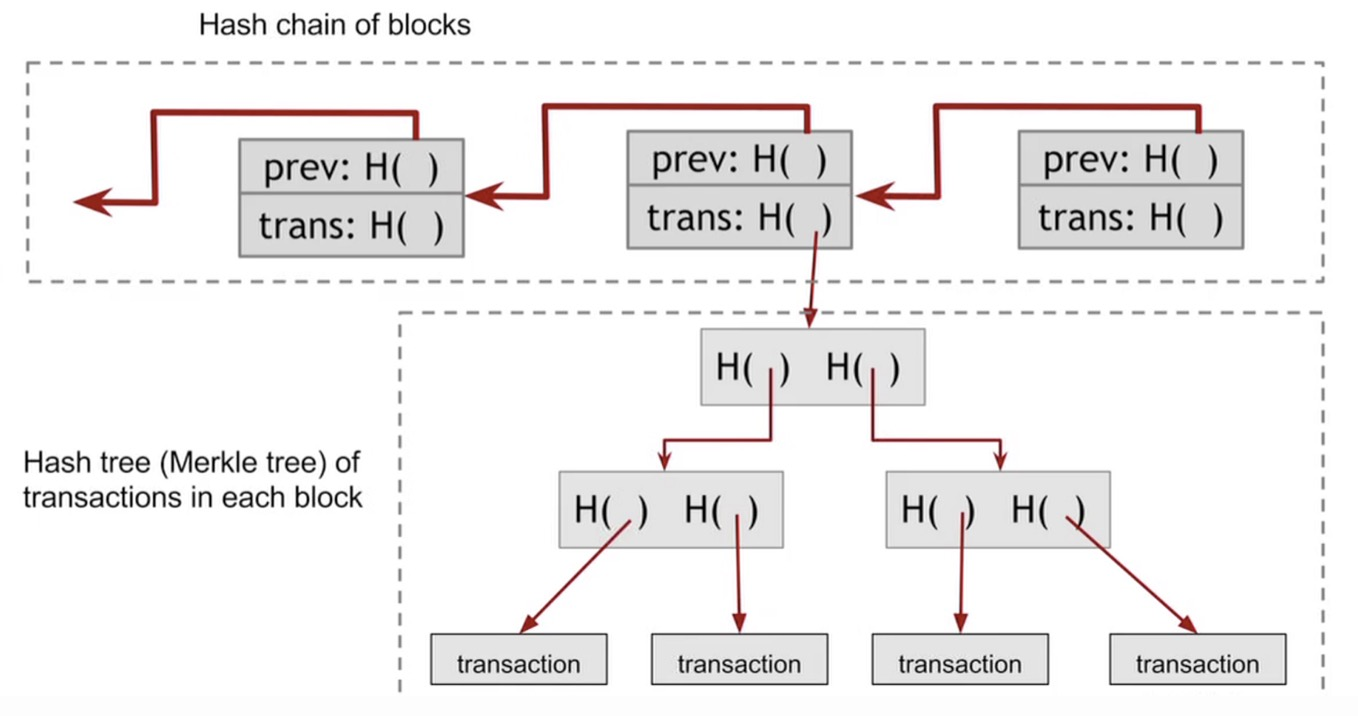
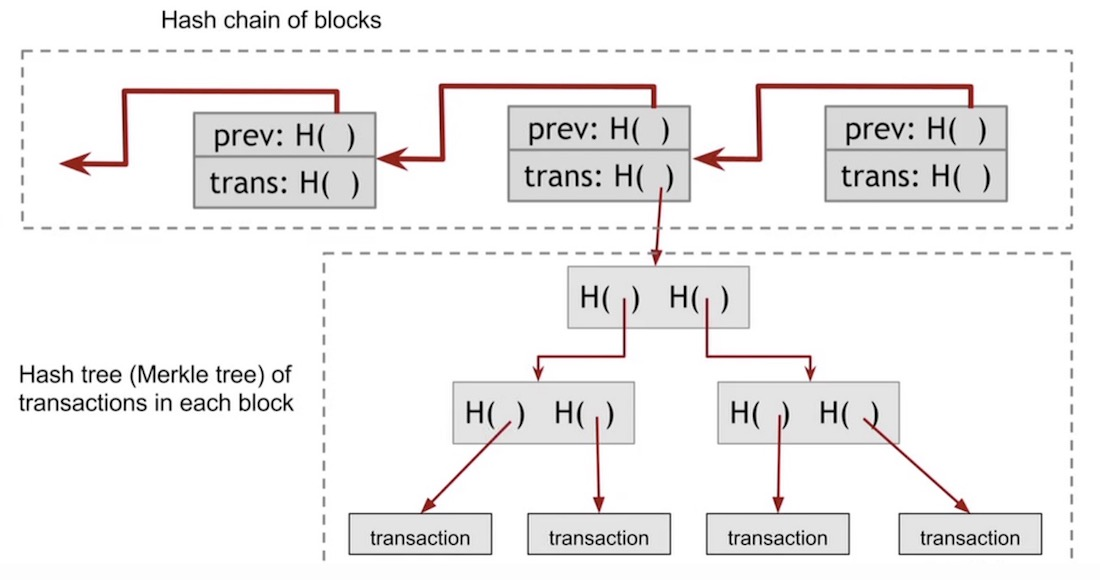
Fixed merkle tree

Changed region(s): [[0.2164, 0.6828, 0.2473, 0.7138], [0.0309, 0.6828, 0.0618, 0.7138]]

diff --git a/computer/2018/07/08/merkle-tree.html b/computer/2018/07/08/merkle-tree.html
@@ -35,20 +35,20 @@
 
 <p>如上图所示，</p>
 <ul>
-  <li>hash代表哈希算法，如MD5，SHA系列等，把任意长度的数据转换为固定长度的哈希值。</li>
+  <li>hash代表哈希算法，如MD5，SHA系列等，可把任意长度的数据转换为固定长度的哈希值。</li>
   <li>L1, L2等是叶子节点对应的数据，直接作为哈希算法的输入。</li>
-  <li>非叶子节点的哈希输入为所有子节点哈希串的拼接。</li>
-  <li>最终形成唯一的根节点，称为Merkle Root.</li>
+  <li>非叶子节点的哈希输入为所有对应子节点哈希串的拼接。</li>
+  <li>最终形成唯一的根节点，称为默克尔根(Merkle Root).</li>
 </ul>
 
 <p>上图叶子节点数为4，恰好每一层都有完整输入。如果叶子节点数量不是2的次方，即不能形成满二叉树，怎么处理呢？</p>
 
 <p>有多种处理“孤立”叶子节点的方式。一种方案是不断重复最后一个节点，直到整体数量达到2^n
 个。这种方案的想法比较直接，缺点也很明显，多做了很多无用功。比较好的方法是，把“孤立”节点提升到更高层次中。具体提到哪一层，要看叶子节点的数量情况，下图展示了5-7个叶子节点的情况：</p>
-<div class="highlighter-rouge"><div class="highlight"><pre class="highlight"><code>     ┌───┴──┐       ┌────┴───┐         ┌─────┴─────┐
-  ┌──┴──┐   │    ┌──┴──┐     │      ┌──┴──┐     ┌──┴──┐
-┌─┴─┐ ┌─┴─┐ │  ┌─┴─┐ ┌─┴─┐ ┌─┴─┐  ┌─┴─┐ ┌─┴─┐ ┌─┴─┐   │
-      (5)              (6)                  (7)
+<div class="highlighter-rouge"><div class="highlight"><pre class="highlight"><code>     ┌───┴──┐          ┌────┴───┐            ┌─────┴─────┐
+  ┌──┴──┐   │       ┌──┴──┐     │         ┌──┴──┐     ┌──┴──┐
+┌─┴─┐ ┌─┴─┐ │     ┌─┴─┐ ┌─┴─┐ ┌─┴─┐     ┌─┴─┐ ┌─┴─┐ ┌─┴─┐   │
+       (5)                 (6)                    (7)
 </code></pre></div></div>
 
 <h3 id="默克尔树的特性">默克尔树的特性</h3>
@@ -60,9 +60,7 @@
     <p><strong>快速定位差异</strong>。二叉树查询的时间复杂度为O(logN)，沿着根节点向下对比，可以非常高效地确定具体是哪个（些）叶子的数据有差异。</p>
   </li>
   <li>
-    <p><strong>默克尔证明</strong>。如图，要证明数据d3在数据集中，只要知道节点c,i,
-n（白色节点）的值，即可通过重新计算节点d,j,
-m的值，进而计算根节点的值，再和给定的根节点对比，判断d3是否属于该数据集。不需要拿到所有数据，即可完成此验证。</p>
+    <p><strong>默克尔证明</strong>。如图，要证明数据d3在数据集中，只要知道节点c,i,n（白色节点）的值，即可通过重新计算节点d,j,m的值，进而计算根节点的值，再和给定的根节点对比，判断d3是否属于该数据集。不需要拿到所有数据，即可完成此验证。</p>
   </li>
 </ul>
 
@@ -71,30 +69,30 @@ m的值，进而计算根节点的值，再和给定的根节点对比，判断d
 <h3 id="默克尔树的应用">默克尔树的应用</h3>
 
 <h4 id="p2p下载">P2P下载</h4>
-<p>在p2p下载出现之前，整个文件的数据都从一个中心节点上获取。这个中心节点的资源和稳定性常常成为瓶颈点，而一旦下载异常，整体文件都需要重新下载。p2p
+<p>在p2p下载出现之前，整个文件的数据都从一个中心节点上获取。这个中心节点的资源和稳定性常常成为瓶颈点，一旦下载异常，整体文件都需要重新下载。p2p
 网络出现后，一个大文件被分割成许多小块，编号后分布在不同的资源节点上，下载操作同时从多个节点上进行，每一块都有对应的哈希值，用于下载后的检验。就算一个块出错，只需要重新下载这小块就行，而不需要重新下载整个文件。</p>
 
 <p>问题是如何确保每一块的哈希值本身是正确的呢，在p2p
-网络中，任何人都可以成为提供下载资源的节点，无法确保数据本身或其哈希值没被恶意修改。一种方式是由可靠的权威节点提供这些小块数据的哈希值，可以从做生意节点下载资源，但只从权威节点下载哈希值。这当然可行，对权威节点的依赖还是太大了。</p>
+网络中，任何人都可以成为提供下载资源的节点，无法确保数据本身或其哈希值没被恶意修改。一种方式是由可靠的权威节点提供这些小块数据的哈希值，可以从做任意节点下载资源，但只从权威节点下载哈希值。这当然可行，但对权威节点的依赖还是太大了。</p>
 
-<p>默克尔树能解决这个问题。把小块数据作为叶子节点，构建默克尔树，只要根节点的哈希值从可信节点下载，剩下所有数据和节点哈希值都可以从任意节点下载。各个分支的值可以对其子树进行检测，根的值则可以对整个默克尔树进行检测。这样就确保了整个大文件的完整性，而各个分支又可以独立处理。</p>
+<p>默克尔树能解决这个问题呢？把小块数据作为叶子节点，构建默克尔树，只要根节点的哈希值从可信节点下载，剩下所有数据和节点哈希值都可以从任意节点下载。各个分支的值可以对其子树进行检测，根的值则可以对整个默克尔树进行检测。这样既可以各个分支并行独立处理，又确保了整个大文件的完整性。</p>
 
 <h4 id="比特币交易验证">比特币交易验证</h4>
 
-<p>在区块头是不包含交易（Transaction）信息的，其中关于交易的数据只是这个区块内的交易生成的默克尔树的根节点。
+<p>比特币的设计里，区块头是不包含交易（Transaction）信息的，关于交易的数据只是交易构建的默克尔树的根节点。
 <img src="/img/2018.3/blockchain.jpeg" alt="" class="img-responsive" /></p>
 
-<p>而比特币网络的轻量客户端（如钱包）不存储完整的区块数据，仅下载区块头，就能验证某笔交易是否被打包到链上。这是如何做到的呢？客户端验证步骤如下：</p>
+<p>而比特币网络的轻量客户端（如钱包）又不存储完整的区块数据，仅下载区块头，就能验证某笔交易是否被打包到链上。这是如何做到的呢？客户端验证步骤如下：</p>
 <ul>
   <li>首先对交易数据进行哈希。</li>
   <li>然后咨询完整节点：这个哈希值对应的交易是否在第index
 个区块中？</li>
   <li>完整节点的区块不会直接返回在或不在的结论，而是返回一个<em>默克尔证明</em>（重新计算根节点所需的路径）。</li>
-  <li>验证这个”默克尔证明”，即独立计算根节点的哈希值。</li>
+  <li>客户端验证这个”默克尔证明”，即独立计算根节点的哈希值。</li>
   <li>对比区块头中的哈希值与计算结果是否相同。</li>
 </ul>
 
-<p>对于n笔交易而言，路径节点数只要log2(n)，无论是查找还是数据传输都是一个巨大的效率提升。不妨试算一下，假设革个区块包含32768笔交易，每笔交易占256字节，则所有交易大小为8M
+<p>对于n笔交易而言，路径节点数只要log2(n)，无论是查找还是数据传输都是一个巨大的效率提升。不妨试算一下，假设某个区块包含32768笔交易，每笔交易占256字节，则所有交易大小为8M
 ，而路径数为15，每个哈希占32字节，则路径大小仅为480字节，差距高达5个数量级。</p>
 
 <p>值得指出的是，比特币网络的任何节点都不会也没必要相信其它节点，节点只能依赖事先约定的协议独立地验证来自网络的数据。这个验证的最终基础正是数学。用张首晟的话说：</p>